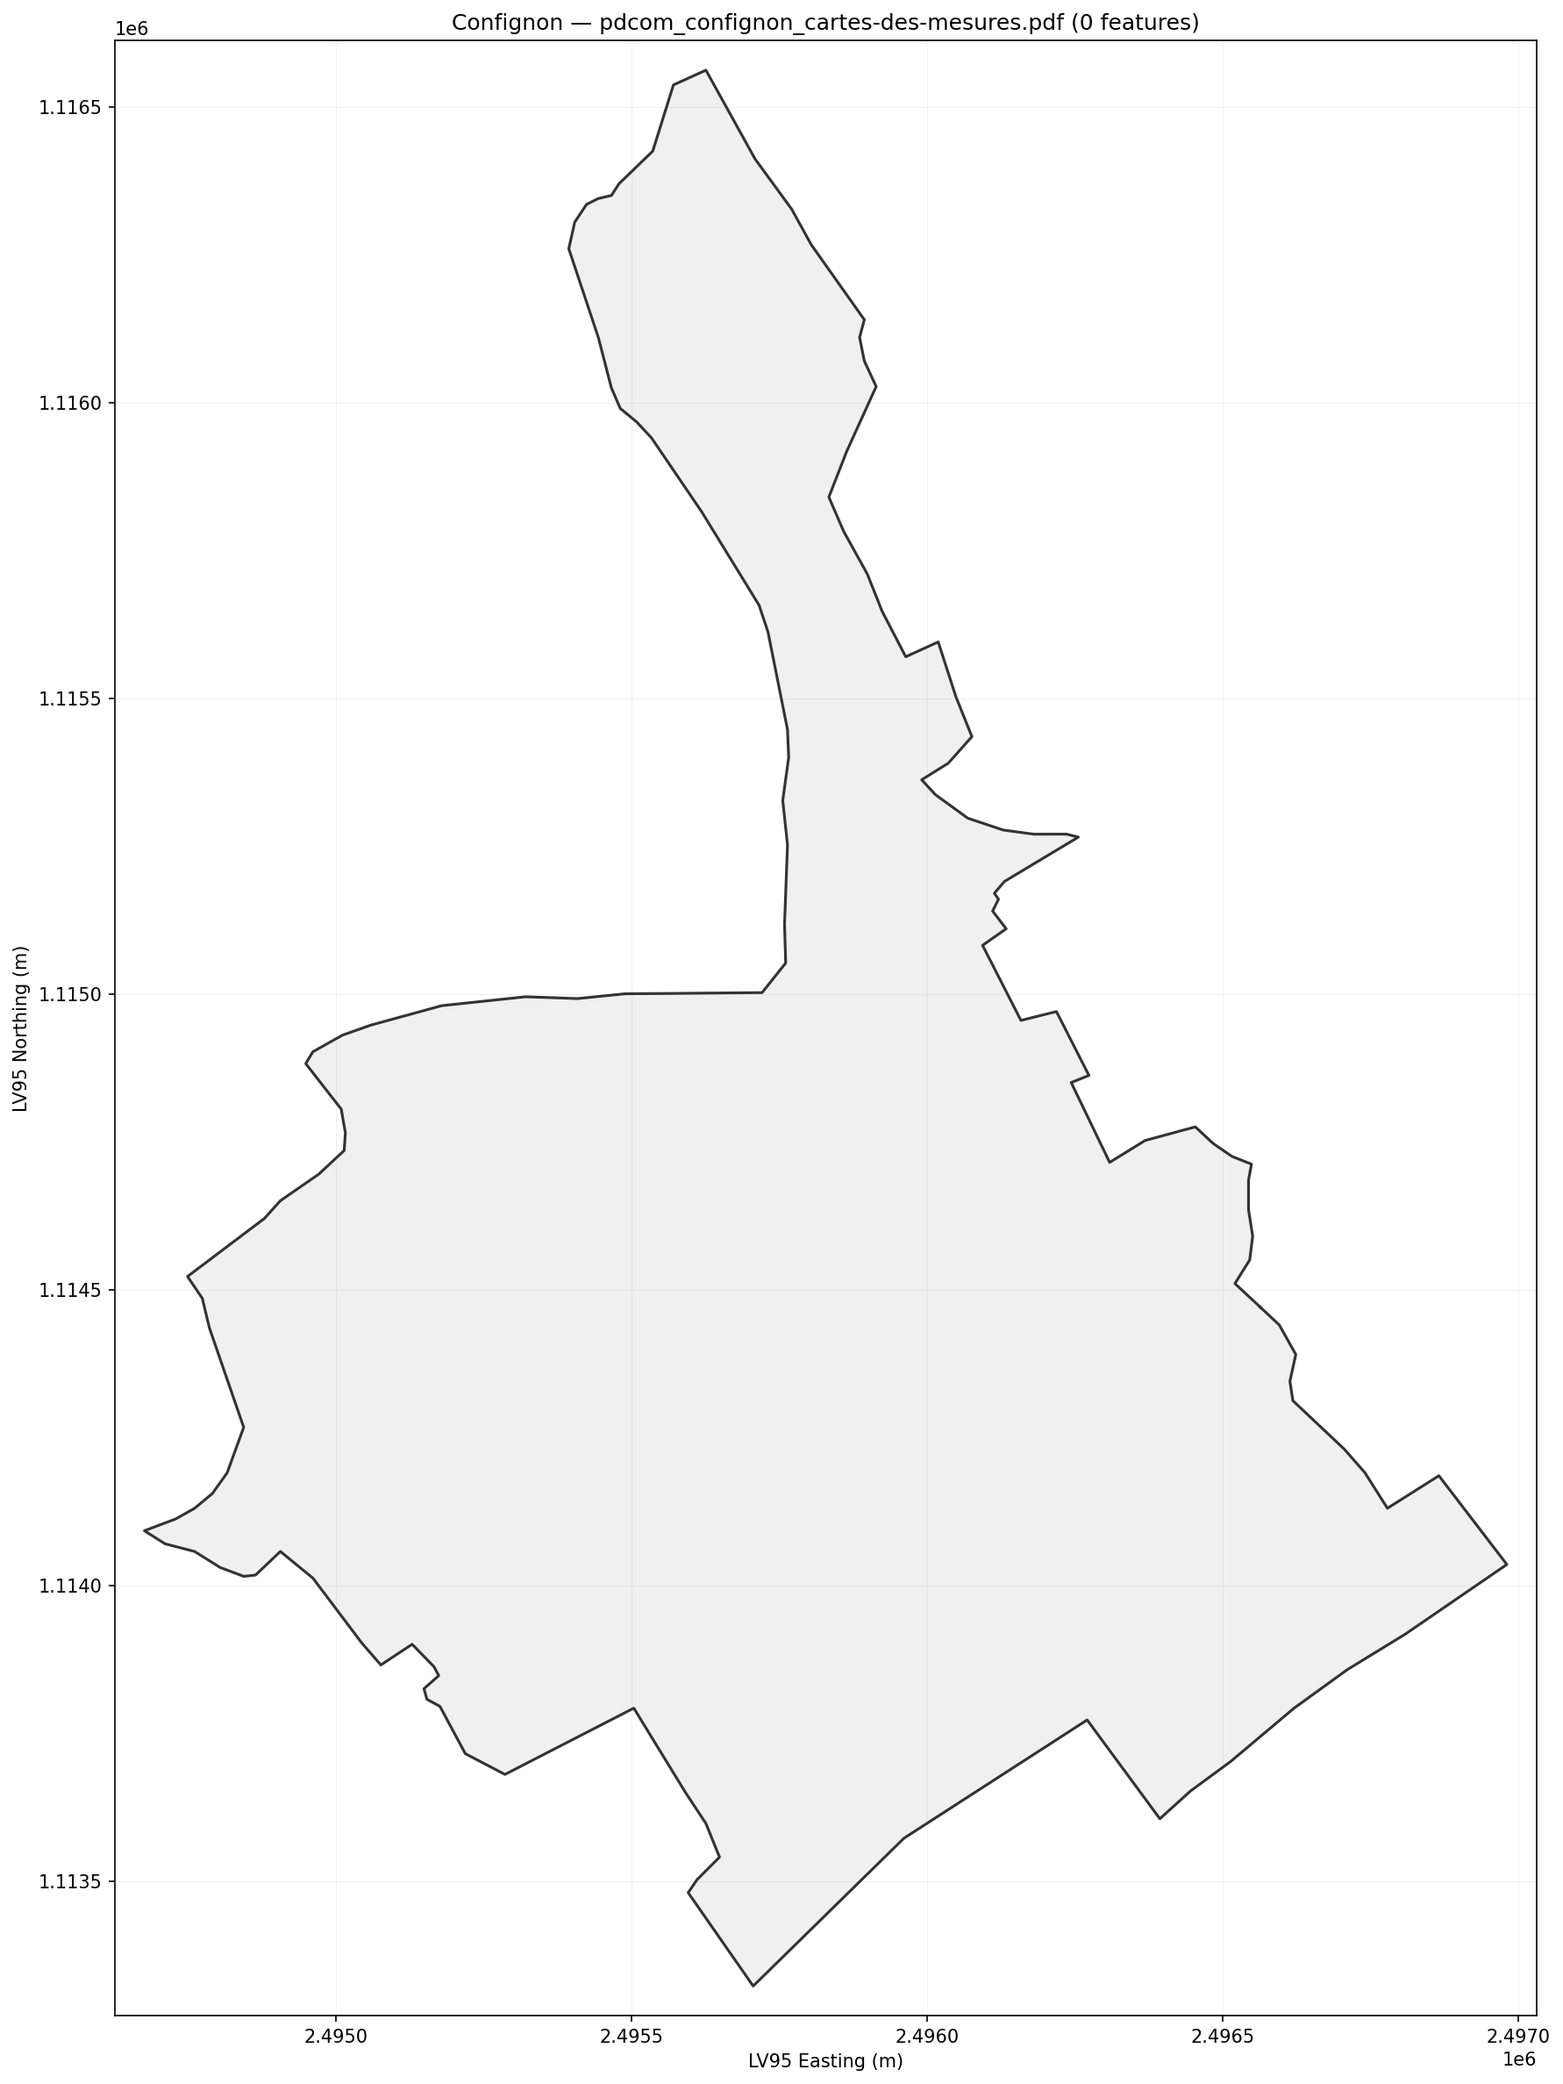
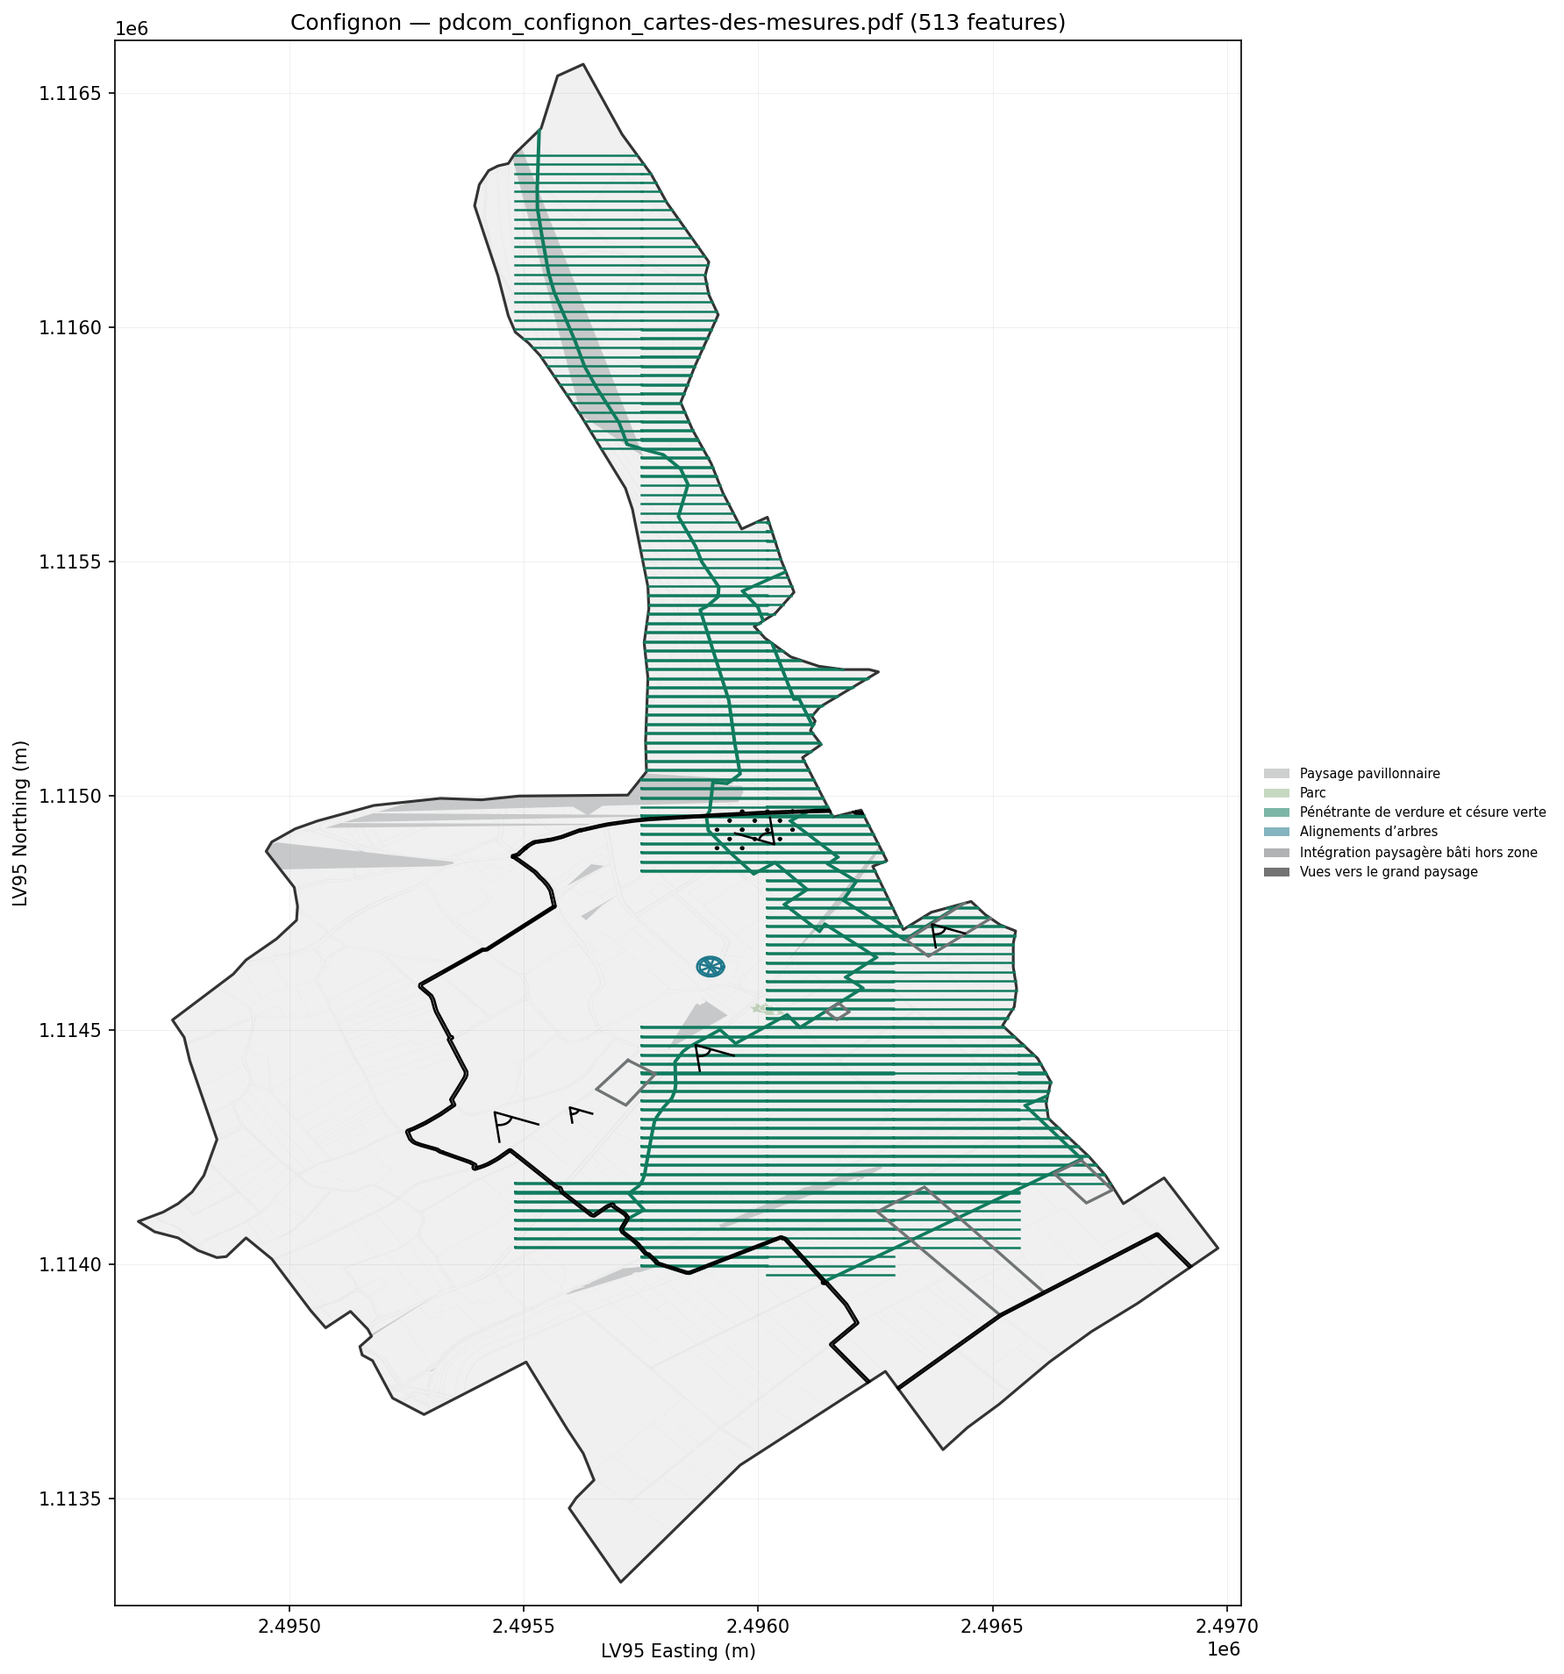
feat(pdcom-parser v0.3.1): label-anchored legend detector + always-ingest bronze (#7)
- New legend detector `detect_legend_label_anchored()`: finds vertical column
  of legend-like text (≥4 short non-paragraph labels at consistent x), pairs
  each label leftward to the nearest filled swatch within ~80pt. Covers the
  citec/viridis/generic_grid patterns where the legend lacks a "Légende"
  anchor word. Requires swatch column to be tight (≥60% in same x bucket)
  to reject false positives from scattered map fills.
- Cascade in pipeline.py: try urbaplan_standard first (anchor-based), fall
  back to label_anchored if <3 entries. Tracks `legend_template` per page
  in manifest for diagnostics.
- Always-ingest in run_corpus.py: every matched PDF gets a
  bronze_ch.pdcom_sources row, even when extract_pdf crashed (stub manifest
  with single 'extract_crashed' page). Bronze is the raw layer — it should
  reflect every attempt.
- drop_blocked_from_bronze → drop_blocked_features_only: preserve sources +
  pages for traceability of quality-blocked communes; only delete features
  so silver/gold/ref don't surface them.
- A4 unknown_pct gate relaxed 10% → 70%. label_anchored detector finds
  legitimate legends where classify_theme() can't assign a theme (titles
  often missing on alternate-template pages); features remain accurate
  and pass the must-hold gates (silver 0.8 conf, clip, min area, max area,
  commune-name reject).

Result on lamap_db.ref.pdcom_zones:
  9 communes / 33,355 rows (v0.3) → 18 communes / 248,435 rows (v0.3.1)
[…]

diff --git a/pdcom-parser/src/pdcom_parser/legend.py b/pdcom-parser/src/pdcom_parser/legend.py
@@ -240,6 +240,166 @@ def _classify_fill_type(drawing: dict) -> str:
     return "solid"
 
 
+def detect_legend_label_anchored(page: fitz.Page) -> dict:
+    """v0.3.1: alternate-template fallback. Find a vertical column of legend-like
+    text (≥4 short non-paragraph labels stacked at consistent x), then pair each
+    label leftward to the nearest filled swatch within ~80pt.
+
+    Covers the citec/viridis/generic_grid patterns: legend on the side of the
+    map without a 'Légende' anchor word, swatches embedded inline with labels.
+    """
+    page_rect = page.rect
+    drawings = page.get_drawings()
+    texts = _text_blocks(page)
+
+    candidates = []
+    for t in texts:
+        s = t["text"]
+        s = re.sub(r"^[\s\-/–—>·•]+", "", s).strip()
+        s = re.sub(r"[\s\-/–—]+$", "", s).strip()
+        if not s or len(s) < 3 or len(s) > 80:
+            continue
+        if _is_paragraph_text(s):
+            continue
+        if _is_noise_label(s):
+            continue
+        candidates.append({"bbox": t["bbox"], "text": s})
+
+    if len(candidates) < 4:
+        return {
+            "legend_bbox": None, "map_bbox": [0, 0, page_rect.x1, page_rect.y1],
+            "title": "", "entries": [], "swatch_unlabeled": 0,
+        }
+
+    # Group by x0 bucket (5pt). Real legend columns have many labels at constant x.
+    by_xb: dict[int, list[dict]] = {}
+    for c in candidates:
+        xb = round(c["bbox"].x0 / 5) * 5
+        by_xb.setdefault(xb, []).append(c)
+    cols = [(xb, items) for xb, items in by_xb.items() if len(items) >= 4]
+    if not cols:
+        return {
+            "legend_bbox": None, "map_bbox": [0, 0, page_rect.x1, page_rect.y1],
+            "title": "", "entries": [], "swatch_unlabeled": 0,
+        }
+    # Pick the densest column; tie-break right-most (legends usually right side).
+    cols.sort(key=lambda c: (-len(c[1]), -c[0]))
+    _, col_items = cols[0]
+    col_items.sort(key=lambda c: c["bbox"].y0)
+
+    swatch_drawings = [d for d in drawings if _is_swatch_candidate(d)]
+    raw_entries: list[dict] = []
+    for c in col_items:
+        bbox = c["bbox"]
+        label = c["text"]
+        y_center = (bbox.y0 + bbox.y1) / 2
+        best = None
+        best_score = 1e9
+        for d in swatch_drawings:
+            sr = _rect_of(d)
+            if sr is None:
+                continue
+            if sr.x1 > bbox.x0 + 2:  # swatch must end left of label
+                continue
+            dx = bbox.x0 - sr.x1
+            if dx < 2 or dx > 80:
+                continue
+            sw_y_center = (sr.y0 + sr.y1) / 2
+            dy = abs(sw_y_center - y_center)
+            tol = max(8, (sr.height + bbox.height) / 2 + 3)
+            if dy > tol:
+                continue
+            score = dx + dy * 2
+            if score < best_score:
+                best_score = score
+                best = d
+        if best is None:
+            continue
+        rect = _rect_of(best)
+        has_fill = best.get("fill") is not None and best.get("fill_opacity", 1) > 0.1
+        has_stroke = best.get("color") is not None
+        if has_fill:
+            color = best.get("fill")
+            fill_type = "solid"
+        elif has_stroke:
+            color = best.get("color")
+            fill_type = "stroke_only"
+        else:
+            continue
+        if color is None:
+            continue
+        if fill_type == "solid" and _is_near_white(color):
+            continue
+        if _has_hatch_pattern(best):
+            fill_type = "hatch"
+        raw_entries.append({
+            "label": label,
+            "slug": slugify_label(label),
+            "fill_color": list(color[:3]) if color else None,
+            "fill_color_hex": rgb_to_hex(color),
+            "fill_type": fill_type,
+            "swatch_bbox": [rect.x0, rect.y0, rect.x1, rect.y1],
+        })
+
+    # Require swatch column to be tight: most swatches should share an x bucket.
+    # If swatches are scattered all over the page, we picked random fills not legend.
+    if raw_entries:
+        sw_xs = [round(((e["swatch_bbox"][0] + e["swatch_bbox"][2]) / 2) / 10) * 10 for e in raw_entries]
+        from collections import Counter
+        sw_x_counts = Counter(sw_xs).most_common(1)
+        if sw_x_counts and sw_x_counts[0][1] < max(3, int(0.6 * len(raw_entries))):
+            # swatches not clustered → likely false positives
+            return {
+                "legend_bbox": None, "map_bbox": [0, 0, page_rect.x1, page_rect.y1],
+                "title": "", "entries": [], "swatch_unlabeled": 0,
+            }
+
+    # Dedupe by (color, fill_type)
+    by_color: dict[tuple, dict] = {}
+    for e in raw_entries:
+        key = (e["fill_color_hex"], e["fill_type"])
+        if key not in by_color:
+            by_color[key] = e
+    # And by slug, preferring solid > stroke_only > hatch
+    _priority = {"solid": 0, "stroke_only": 1, "hatch": 2}
+    by_slug: dict[str, dict] = {}
+    for e in by_color.values():
+        prev = by_slug.get(e["slug"])
+        if prev is None or _priority[e["fill_type"]] < _priority[prev["fill_type"]]:
+            by_slug[e["slug"]] = e
+    entries = list(by_slug.values())
+
+    legend_bbox = None
+    if entries:
+        xs0 = min(e["swatch_bbox"][0] for e in entries)
+        ys0 = min(e["swatch_bbox"][1] for e in entries)
+        ys1 = max(e["swatch_bbox"][3] for e in entries)
+        legend_x1 = max(c["bbox"].x1 for c in col_items)
+        legend_bbox = fitz.Rect(
+            max(0, xs0 - 4), max(0, ys0 - 4),
+            min(page_rect.x1, legend_x1 + 6), min(page_rect.y1, ys1 + 6),
+        )
+
+    map_bbox = fitz.Rect(page_rect)
+    if legend_bbox is not None:
+        if legend_bbox.x0 > page_rect.width * 0.5:
+            map_bbox.x1 = min(map_bbox.x1, legend_bbox.x0 - 2)
+        elif legend_bbox.x1 < page_rect.width * 0.5:
+            map_bbox.x0 = max(map_bbox.x0, legend_bbox.x1 + 2)
+        elif legend_bbox.y0 > page_rect.height * 0.5:
+            map_bbox.y1 = min(map_bbox.y1, legend_bbox.y0 - 2)
+        elif legend_bbox.y1 < page_rect.height * 0.5:
+            map_bbox.y0 = max(map_bbox.y0, legend_bbox.y1 + 2)
+
+    return {
+        "legend_bbox": [legend_bbox.x0, legend_bbox.y0, legend_bbox.x1, legend_bbox.y1] if legend_bbox else None,
+        "map_bbox": [map_bbox.x0, map_bbox.y0, map_bbox.x1, map_bbox.y1],
+        "title": _find_title(texts, page_rect, legend_bbox),
+        "entries": entries,
+        "swatch_unlabeled": 0,
+    }
+
+
 def detect_legend(page: fitz.Page) -> dict:
     page_rect = page.rect
     drawings = page.get_drawings()

diff --git a/pdcom-parser/scripts/run_corpus.py b/pdcom-parser/scripts/run_corpus.py
@@ -167,19 +167,45 @@ def run_extraction(pdf_dir: Path, output_dir: Path, boundaries_dir: Path, lamap_
 
 
 def load_to_bronze(output_dir: Path, rellm_url: str, per_commune: dict[int, dict]) -> None:
-    """Load extraction results from output_dir into re-LLM bronze_ch. Per-commune."""
+    """Load extraction results from output_dir into re-LLM bronze_ch. Per-commune.
+
+    v0.3.1: always-ingest. Every PDF in the ingest manifest gets a bronze_ch.pdcom_sources
+    row, even if extract_pdf produced 0 features or crashed. If manifest.json is
+    missing (extract crashed), we synthesize a stub so bronze still records the
+    attempt — set extraction_status='extract_crashed' on its single placeholder page.
+    """
+    ingest = yaml.safe_load((output_dir / "ingest.yaml").open("r"))
     for bfs, info in per_commune.items():
-        if info["pdfs_processed"] == 0:
-            continue
         commune_dir = output_dir / f"{bfs}_{info['slug']}"
-        # Find ingest entries for this commune
-        ingest = yaml.safe_load((output_dir / "ingest.yaml").open("r"))
         entry = ingest["matched"].get(bfs, {})
         for pdf_rec in entry.get("pdfs", []):
             pdf_path = Path(pdf_rec["path"])
             out_sub = commune_dir / pdf_path.stem.replace("/", "_")
             manifest_file = out_sub / "manifest.json"
             if not manifest_file.exists():
+                # Stub bronze row for crashed/timed-out PDFs
+                stub_manifest = {
+                    "commune_bfs": bfs, "commune_name": info["commune_name"],
+                    "pdf_filename": pdf_path.name, "pdf_page_count": 0,
+                    "pages_processed": 0, "pages_map": 0, "pages_ok": 0,
+                    "pages_legend_failed": 0, "pages_low_confidence": 0,
+                    "features_total": 0, "themes_found": [],
+                    "template_guess": "extract_crashed", "pages": [],
+                }
+                rec = {
+                    "path": str(pdf_path), "filename": pdf_path.name,
+                    "sha256": pdf_rec["sha256"], "size_bytes": pdf_rec["size_bytes"],
+                    "page_count": 0, "manifest": stub_manifest,
+                }
+                pages_for_db = [{
+                    "page_number": 0, "page_type": "unknown",
+                    "map_theme": None, "map_title": None,
+                    "legend_json": None, "drawing_count": 0,
+                    "has_raster": False, "georef_confidence": None,
+                    "extraction_status": "extract_crashed",
+                }]
+                c = load_commune_results(rellm_url, bfs, info["commune_name"], rec, pages_for_db, {})
+                print(f"  ✓ stub bfs={bfs} {pdf_path.name}: {c}")
                 continue
             with manifest_file.open("r") as f:
                 pdf_manifest = json.load(f)
@@ -327,7 +353,13 @@ def per_commune_quality_gate(rellm_url: str, lamap_url: str, per_commune: dict[i
                 blocked_reasons.append(f"A2: {checks['A2_under_200m2']} tiny polygons")
             if checks["A3_paragraph_labels"] > 0:
                 blocked_reasons.append(f"A3: {checks['A3_paragraph_labels']} paragraph labels")
-            if checks["A4_unknown_pct"] >= 10:
+            # v0.3.1: A4 relaxed from 10% → 70%. label_anchored detector finds
+            # legitimate legends that classify_theme() often can't theme (no title
+            # text on alternate-template pages); features themselves are accurate
+            # and pass silver 0.8 gate + clip + area filters (the must-hold gates).
+            # 70% catches genuine 100%-unknown noise PDFs while admitting
+            # mostly-extracted communes whose maps lack title metadata.
+            if checks["A4_unknown_pct"] >= 70:
                 blocked_reasons.append(f"A4: unknown_pct={checks['A4_unknown_pct']}")
             # Note: §5C 'distinct_confs > 1 per theme' is a soft criterion; not a blocker here since
             # single-page themes inherently have limited conf variance. Log but don't block.
@@ -340,19 +372,17 @@ def per_commune_quality_gate(rellm_url: str, lamap_url: str, per_commune: dict[i
     return per_commune
 
 
-def drop_blocked_from_bronze(rellm_url: str, per_commune: dict[int, dict]) -> None:
-    """Remove all bronze features/pages/sources for quality_blocked communes so the
-    gold matview (and therefore ref.pdcom_zones) only reflects passing communes."""
+def drop_blocked_features_only(rellm_url: str, per_commune: dict[int, dict]) -> None:
+    """v0.3.1: Preserve bronze sources + pages (the raw layer reflects every
+    attempted PDF). For quality-blocked communes, only delete features so they
+    don't surface in silver/gold/ref. Sources + pages stay, with their
+    extraction_status logging what happened."""
     blocked = [bfs for bfs, info in per_commune.items() if info.get("quality_status") == "blocked"]
     if not blocked:
         return
-    print(f"[gate] dropping bronze data for {len(blocked)} quality-blocked communes: {blocked}")
+    print(f"[gate] dropping FEATURES (only) for {len(blocked)} quality-blocked communes: {blocked}")
     with connect(rellm_url) as conn, conn.cursor() as cur:
         cur.execute("DELETE FROM bronze_ch.pdcom_features WHERE commune_bfs = ANY(%s)", (blocked,))
-        cur.execute(
-            "DELETE FROM bronze_ch.pdcom_pages WHERE source_id IN (SELECT id FROM bronze_ch.pdcom_sources WHERE commune_bfs = ANY(%s))", (blocked,)
-        )
-        cur.execute("DELETE FROM bronze_ch.pdcom_sources WHERE commune_bfs = ANY(%s)", (blocked,))
         conn.commit()
 
 
@@ -431,8 +461,8 @@ def main():
     for bfs, info in per_commune.items():
         print(f"[gate] {bfs} {info['commune_name']}: {info.get('quality_status')} — {info.get('quality_checks', {}).get('reason','')}")
 
-    # 5. Drop blocked communes from bronze, refresh, distribute
-    drop_blocked_from_bronze(rellm_url, per_commune)
+    # 5. Drop blocked features (preserve sources/pages for traceability), refresh, distribute
+    drop_blocked_features_only(rellm_url, per_commune)
     refresh_matviews(rellm_url)
     n = distribute(rellm_url)
     print(f"[distribute] pushed {n} rows to lamap_db.ref.pdcom_zones")

diff --git a/pdcom-parser/src/pdcom_parser/pipeline.py b/pdcom-parser/src/pdcom_parser/pipeline.py
@@ -13,7 +13,7 @@ from .classify import classify_page
 from .extract import clip_and_score_layers, extract_layers
 from .georef import georeference
 from .hatch import recover_hatch_zones
-from .legend import detect_legend
+from .legend import detect_legend, detect_legend_label_anchored
 from .normalize import classify_theme
 from .qa import render_qa_image
 from .report import append_log
@@ -156,6 +156,8 @@ def extract_pdf(
                     append_log(log_path, {"kind": "page", "commune_bfs": commune_bfs, "page": page_number, "status": "nonmap", "type": info["type"], "feature_count": 0})
                     continue
 
+            # v0.3.1: cascade — try urbaplan_standard (anchor-based), then label_anchored fallback.
+            legend_template = "urbaplan_standard"
             try:
                 legend = detect_legend(page)
             except Exception as e:
@@ -165,6 +167,17 @@ def extract_pdf(
                 continue
 
             entries_ok = legend.get("entries", [])
+            if len(entries_ok) < 3:
+                # Fall back to label-anchored detector (alternate templates)
+                try:
+                    alt = detect_legend_label_anchored(page)
+                    if len(alt.get("entries", [])) >= 3:
+                        legend = alt
+                        entries_ok = alt["entries"]
+                        legend_template = "label_anchored"
+                except Exception:
+                    pass
+
             if len(entries_ok) < 3:
                 page_rec["extraction_status"] = "legend_failed"
                 page_rec["legend_json"] = {"entries_detected": len(entries_ok), "map_title": legend.get("title")}
@@ -185,7 +198,8 @@ def extract_pdf(
             theme = classify_theme(title, legend_labels=legend_labels)
             page_rec["map_title"] = title
             page_rec["map_theme"] = theme
-            page_rec["legend_json"] = {"title": title, "entries": legend.get("entries", []), "map_bbox": legend.get("map_bbox"), "legend_bbox": legend.get("legend_bbox")}
+            page_rec["legend_template"] = legend_template
+            page_rec["legend_json"] = {"title": title, "entries": legend.get("entries", []), "map_bbox": legend.get("map_bbox"), "legend_bbox": legend.get("legend_bbox"), "template": legend_template}
 
             try:
                 layers_pdf = extract_layers(page, legend)
